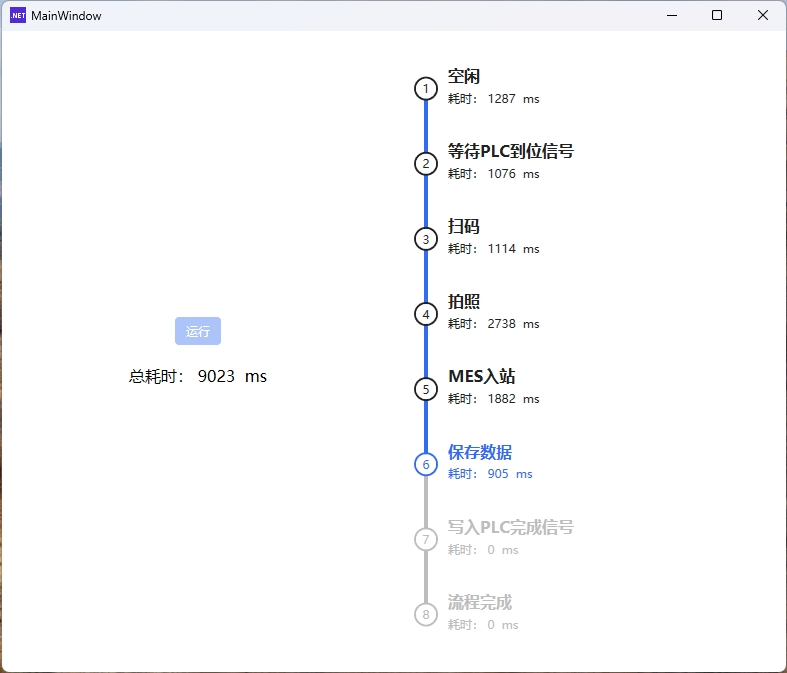
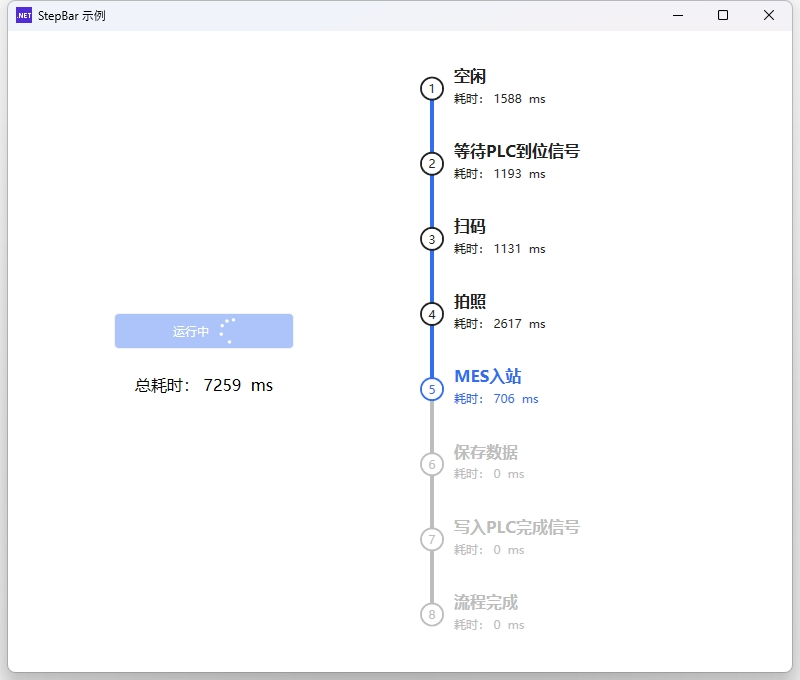
feat: implement proper disposal and improve step execution UI
- Add IDisposable implementation to MainWindowViewModel and StepProgress for proper resource cleanup
- Replace Button with ToggleButton to show running state with dynamic text
- Fix memory leak by disposing subscriptions in OnClosed event
- Add DistinctUntilChanged to elapsed time observables to reduce unnecessary UI updates
- Update Visual Studio version requirement in README from 2022 to 2026

diff --git a/StepBar.Demo/MainWindow.xaml b/StepBar.Demo/MainWindow.xaml
@@ -19,10 +19,14 @@
       <ColumnDefinition Width="*" />
     </Grid.ColumnDefinitions>
     <StackPanel Grid.Column="0" Margin="20" Orientation="Vertical" VerticalAlignment="Center">
-      <Button
-        Style="{StaticResource ButtonPrimary}"
-        Content="运行"
+      <ToggleButton
+        Style="{StaticResource ToggleButtonLoadingPrimary}"
         Command="{Binding RunCommand}"
+        IsChecked="{Binding IsRunning}"
+        Content="{Binding IsChecked,RelativeSource={RelativeSource Self},Converter={StaticResource Boolean2StringConverter},ConverterParameter='启动;运行中'}"
+        Width="180"
+        Height="36"
+        Margin="5"
       />
       <TextBlock FontSize="16" Margin="0,20,0,0" HorizontalAlignment="Center">
         <Run Text="总耗时：" />

diff --git a/StepBar.Demo/MainWindowViewModel.cs b/StepBar.Demo/MainWindowViewModel.cs
@@ -9,7 +9,7 @@ namespace StepBar.Demo;
 /// <summary>
 /// The view model for the main window, responsible for managing the list of steps and their execution.
 /// </summary>
-public sealed class MainWindowViewModel : ReactiveObject
+public sealed class MainWindowViewModel : ReactiveObject, IDisposable
 {
     private readonly Stopwatch _stopwatch = new();
     private readonly IDisposable _elapsedTimeSubscription;
@@ -23,6 +23,15 @@ public sealed class MainWindowViewModel : ReactiveObject
     /// Gets the command to execute all steps sequentially.
     /// </summary>
     public ReactiveCommand<Unit, Unit> RunCommand { get; }
+
+    /// <summary>
+    /// Gets a value indicating whether the steps are currently running.
+    /// </summary>
+    public bool IsRunning
+    {
+        get;
+        set => this.RaiseAndSetIfChanged(ref field, value);
+    }
 
     /// <summary>
     /// Gets or sets the current index of the step being processed.
@@ -60,28 +69,43 @@ public sealed class MainWindowViewModel : ReactiveObject
         _elapsedTimeSubscription = Observable
             .Interval(TimeSpan.FromMilliseconds(100))
             .Select(_ => _stopwatch.ElapsedMilliseconds)
+            .DistinctUntilChanged()
             .ObserveOn(RxSchedulers.MainThreadScheduler)
-            .Subscribe(x => TotalElapsedTime = x);
+            .Subscribe(time => TotalElapsedTime = time);
     }
 
     private async Task RunStepsAsync()
     {
-        CurrentStepIndex = 0;
-        TotalElapsedTime = 0;
-
         foreach (var stepProgress in StepProgresses)
         {
             stepProgress.Reset();
         }
 
+        TotalElapsedTime = 0;
+        IsRunning = true;
         _stopwatch.Restart();
 
-        foreach (var stepProgress in StepProgresses)
+        for (CurrentStepIndex = 0; CurrentStepIndex < StepProgresses.Count; CurrentStepIndex++)
         {
+            var stepProgress = StepProgresses[CurrentStepIndex];
             await stepProgress.RunAsync();
-            CurrentStepIndex++;
         }
 
         _stopwatch.Stop();
+        IsRunning = false;
+    }
+
+    /// <summary>
+    /// Disposes of the resources used by the view model.
+    /// </summary>
+    public void Dispose()
+    {
+        _elapsedTimeSubscription.Dispose();
+
+        foreach (var stepProgress in StepProgresses)
+        {
+            stepProgress.Dispose();
+        }
+        StepProgresses.Clear();
     }
 }

diff --git a/StepBar.Demo/StepProgress.cs b/StepBar.Demo/StepProgress.cs
@@ -45,8 +45,9 @@ public sealed class StepProgress : ReactiveObject, IDisposable
         _elapsedTimeSubscription = Observable
             .Interval(TimeSpan.FromMilliseconds(100))
             .Select(_ => _stopwatch.ElapsedMilliseconds)
+            .DistinctUntilChanged()
             .ObserveOn(RxSchedulers.MainThreadScheduler)
-            .Subscribe(x => ElapsedTime = x);
+            .Subscribe(time => ElapsedTime = time);
     }
 
     /// <summary>
@@ -76,7 +77,6 @@ public sealed class StepProgress : ReactiveObject, IDisposable
     /// </summary>
     public void Dispose()
     {
-        _stopwatch.Stop();
         _elapsedTimeSubscription.Dispose();
     }
 }

diff --git a/StepBar.Demo/MainWindow.xaml.cs b/StepBar.Demo/MainWindow.xaml.cs
@@ -33,4 +33,18 @@ public partial class MainWindow
         var randomDelay = Random.Shared.Next(1000, 3000);
         await Task.Delay(TimeSpan.FromMilliseconds(randomDelay));
     }
+
+    /// <summary>
+    /// Disposes of the resources used by the view model when the window is closed.
+    /// </summary>
+    /// <param name="e">The event arguments.</param>
+    protected override void OnClosed(EventArgs e)
+    {
+        if (DataContext is IDisposable disposable)
+        {
+            disposable.Dispose();
+        }
+
+        base.OnClosed(e);
+    }
 }

diff --git a/README.md b/README.md
@@ -26,7 +26,7 @@
 
 ### 前置要求
 
-- Visual Studio 2022 (或支持 .NET 10 的 IDE)
+- Visual Studio 2026 (或支持 .NET 10 的 IDE)
 - .NET 10.0 SDK
 
 ### 获取代码
